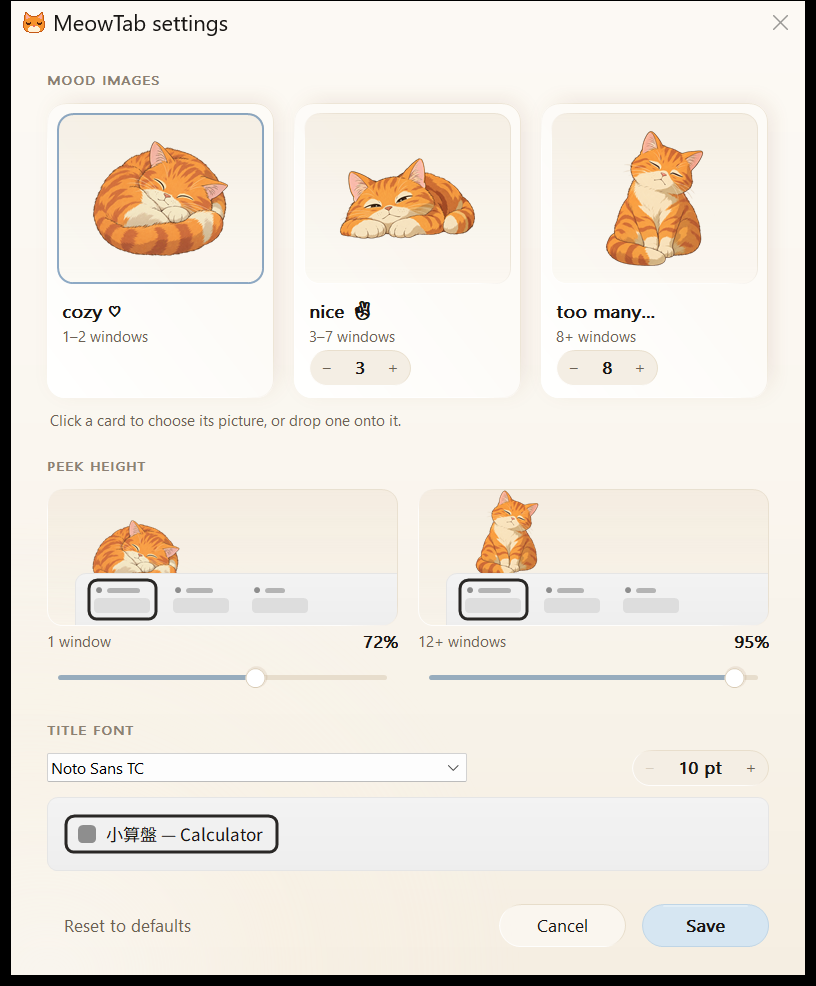
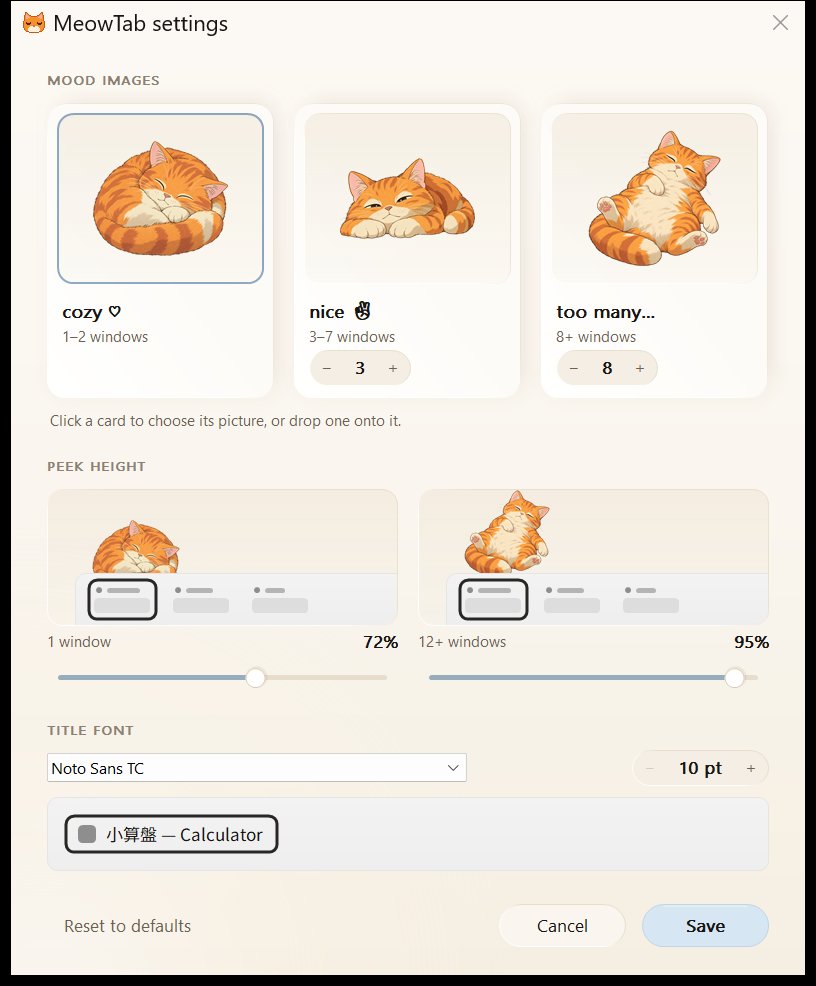
New "too many…" cat
Replace chill_many.png with the author's new art, framed like the rest
of the set (art centred, longer side 483 px on the 512 px canvas,
270 KB), and refresh the settings screenshot to show it.

Set up OpenSpec: the change is archived under openspec/changes/archive
and its requirements live in openspec/specs/mood-pictures.

Changed region(s): [[0.7047, 0.1217, 0.8885, 0.2738], [0.5515, 0.4868, 0.674, 0.5781]]

diff --git a/openspec/changes/archive/2026-10-08-new-many-picture/tasks.md b/openspec/changes/archive/2026-10-08-new-many-picture/tasks.md
@@ -1,0 +1,21 @@
+# Tasks
+
+## 1. Picture
+
+- [x] 1.1 Turn `images/chill_4.png` into `images/chill_many.png`: crop to the art (alpha > 24), scale its longer side to 483 px with alpha-correct high-quality resampling, and centre it on a transparent 512×512 canvas. Verify: the measured art box is centred within 1 px, its longer side is 482-484 px, and the file is ≤ 300 KB.
+- [x] 1.2 Check the edges at 200 % over white and over near-black. If a coloured fringe shows, clean the faint edge pixels and check again. Verify: before/after crops show no fringe.
+
+## 2. In place
+
+- [x] 2.1 Open the settings panel with default settings. The "too many…" card and the "12+ windows" peek scene must show the new cat with its face and both ears. Save a capture of the panel alone as `docs/settings.png`, framed like the current one (816×986). Verify: side by side with the old shot, only the cat differs.
+- [x] 2.2 Open the switcher with 12 or more demo windows, over a stand-in wallpaper only. Verify: a capture shows the cat's face and both ears in full above the pane. (Checked at 1920×1200 and 100 %. The new art spans the same rows as the old picture within 1 px, so it peeks the same at 150 %.)
+- [x] 2.3 Run `tests\meowtab.test.ahk`. Verify: it prints `ALL PASSED`.
+
+## 3. Cleanup
+
+- [x] 3.1 Delete `images/chill_4.png` so `build.ps1` ships only the three cats. Verify: `images\chill_*.png` matches exactly `chill_few`, `chill_some` and `chill_many`.
+
+## Workflow follow-up
+
+- Archive the change once verified (this creates `openspec/specs/mood-pictures/spec.md`).
+- Commit the assets and `openspec/` together. No push.

diff --git a/openspec/specs/mood-pictures/spec.md b/openspec/specs/mood-pictures/spec.md
@@ -1,0 +1,32 @@
+# mood-pictures Specification
+
+## Purpose
+
+The shipped mood pictures (`chill_few`, `chill_some`, `chill_many`) that peek over the switcher's top edge: how they are framed so the set looks consistent, and how fully they show.
+
+## Requirements
+
+### Requirement: Shipped pictures share one framing
+Each shipped mood picture SHALL be a 512×512 PNG with a transparent background and at most 300 KB. Its art (pixels with alpha > 24) SHALL be centred, with its longer side 482-484 px.
+
+#### Scenario: Measuring the set
+- **WHEN** the art bounding box of each shipped picture is measured
+- **THEN** each is centred within 1 px on both axes, its longer side is 482-484 px, and the file is 512×512 and ≤ 300 KB
+
+### Requirement: Clean edges
+Shipped pictures SHALL have no visible coloured fringe or halo along the outline of the art.
+
+#### Scenario: Light and dark backgrounds
+- **WHEN** a picture is shown at 200 % over white and over near-black
+- **THEN** no coloured fringe is visible along its outline
+
+### Requirement: The "too many…" cat shows in full
+At maximum peek the "many" picture SHALL show the cat's face and both ears in full, with nothing cut at the top of the canvas.
+
+#### Scenario: Switcher with many windows
+- **WHEN** the switcher opens with 12 or more windows (`PEEK_MAX` reached) on a 1080p screen at 150 %
+- **THEN** the cat's face and both ears show in full above the pane
+
+#### Scenario: Settings panel
+- **WHEN** the settings panel opens
+- **THEN** the "too many…" card and the "12+ windows" peek scene show the cat with its face and both ears visible

diff --git a/openspec/changes/archive/2026-10-08-new-many-picture/specs/mood-pictures/spec.md b/openspec/changes/archive/2026-10-08-new-many-picture/specs/mood-pictures/spec.md
@@ -1,0 +1,32 @@
+# Spec Delta
+
+## Purpose
+
+The shipped mood pictures (`chill_few`, `chill_some`, `chill_many`) that peek over the switcher's top edge: how they are framed so the set looks consistent, and how fully they show.
+
+## ADDED Requirements
+
+### Requirement: Shipped pictures share one framing
+Each shipped mood picture SHALL be a 512×512 PNG with a transparent background and at most 300 KB. Its art (pixels with alpha > 24) SHALL be centred, with its longer side 482-484 px.
+
+#### Scenario: Measuring the set
+- **WHEN** the art bounding box of each shipped picture is measured
+- **THEN** each is centred within 1 px on both axes, its longer side is 482-484 px, and the file is 512×512 and ≤ 300 KB
+
+### Requirement: Clean edges
+Shipped pictures SHALL have no visible coloured fringe or halo along the outline of the art.
+
+#### Scenario: Light and dark backgrounds
+- **WHEN** a picture is shown at 200 % over white and over near-black
+- **THEN** no coloured fringe is visible along its outline
+
+### Requirement: The "too many…" cat shows in full
+At maximum peek the "many" picture SHALL show the cat's face and both ears in full, with nothing cut at the top of the canvas.
+
+#### Scenario: Switcher with many windows
+- **WHEN** the switcher opens with 12 or more windows (`PEEK_MAX` reached) on a 1080p screen at 150 %
+- **THEN** the cat's face and both ears show in full above the pane
+
+#### Scenario: Settings panel
+- **WHEN** the settings panel opens
+- **THEN** the "too many…" card and the "12+ windows" peek scene show the cat with its face and both ears visible

diff --git a/openspec/changes/archive/2026-10-08-new-many-picture/proposal.md b/openspec/changes/archive/2026-10-08-new-many-picture/proposal.md
@@ -1,0 +1,23 @@
+# Proposal
+
+## Why
+
+The author drew a new "too many…" cat, `images/chill_4.png`. It is untracked and stored at 1254 px and 1.6 MB, while the shipped set is 512 px and 200-300 KB. It needs to match the set before the first release (ROADMAP item 5) and the demo GIF (item 6) use it.
+
+## What Changes
+
+- Replace `images/chill_many.png` with the new art, framed like the other shipped pictures. The name stays the same, so `build.ps1` and the code are untouched.
+- Refresh `docs/settings.png`, which shows the old cat on the "too many…" card.
+- Delete `images/chill_4.png`. The old picture stays in git history.
+
+## Capabilities
+
+### New Capabilities
+- `mood-pictures`: the shipped mood pictures, covering their framing and how they show above the pane.
+
+### Modified Capabilities
+None.
+
+## Impact
+
+Assets only: `images/chill_many.png` and `docs/settings.png`. No code changes.
